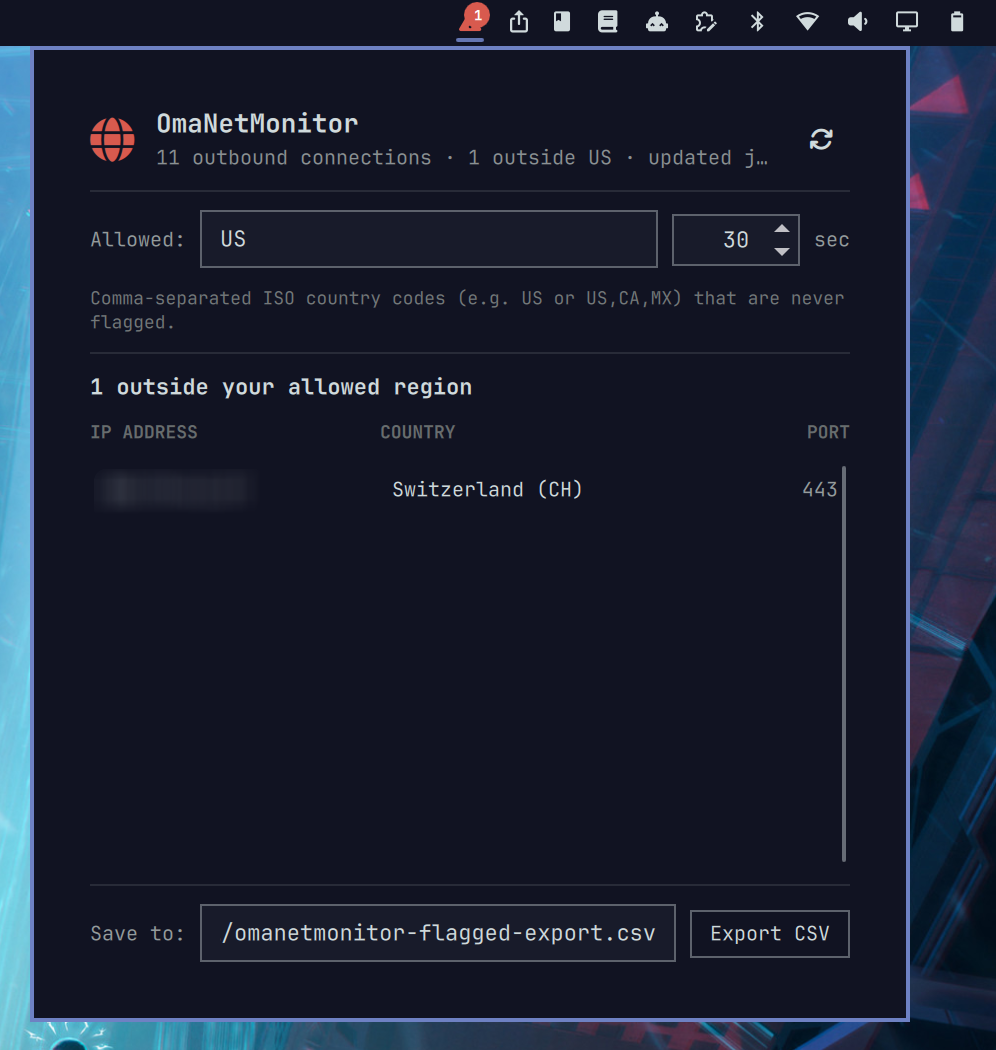
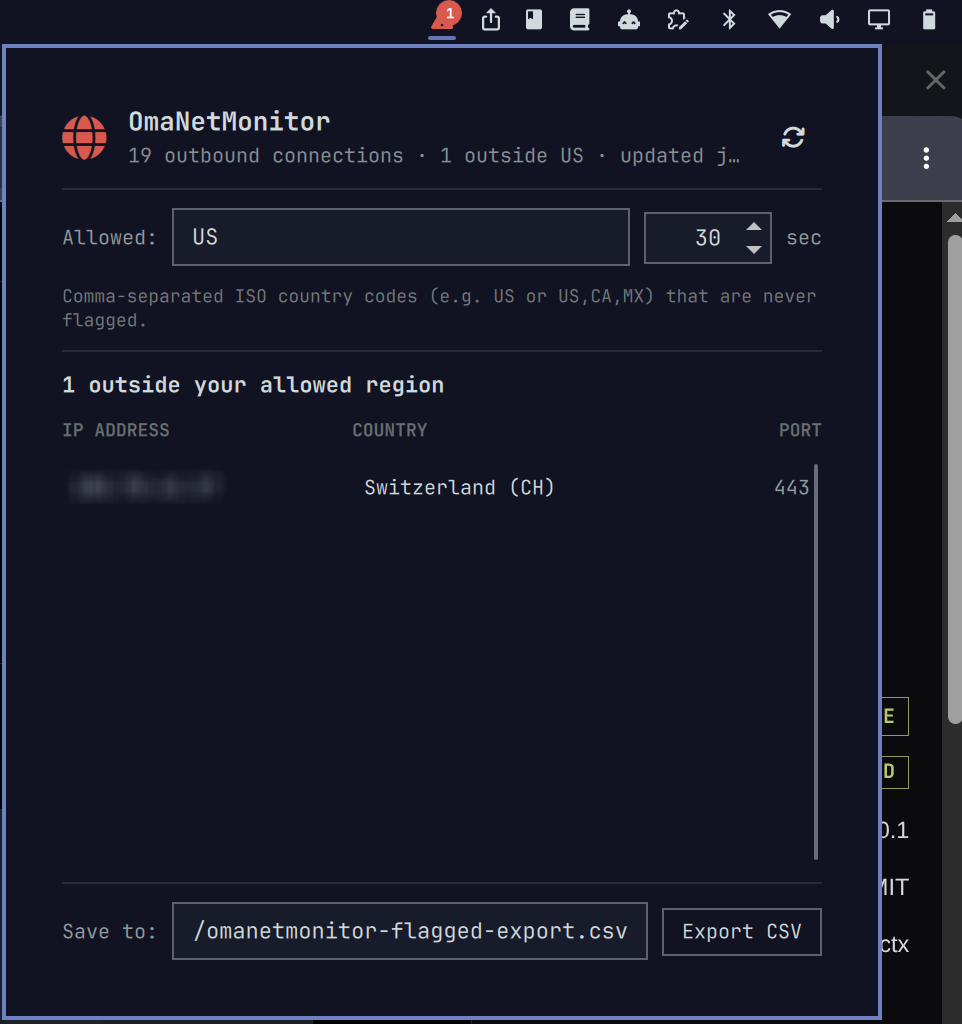
updated version number and README.md image file

diff --git a/README.md b/README.md
@@ -4,10 +4,8 @@ Bar plugin that watches your machine's established outbound TCP connections
 and flags any whose remote IP geolocates outside a country/region you allow.
 
 
-![OmaNetMonitor panel open, showing one flagged connection outside the allowed region](preview.png)
 
-
-![OmaNetMonitor panel with the flagged-connections list and CSV export field](image2.png)
+![OmaNetMonitor panel with the flagged-connections list and CSV export field](preview.png)
 
 
 ## Installation
